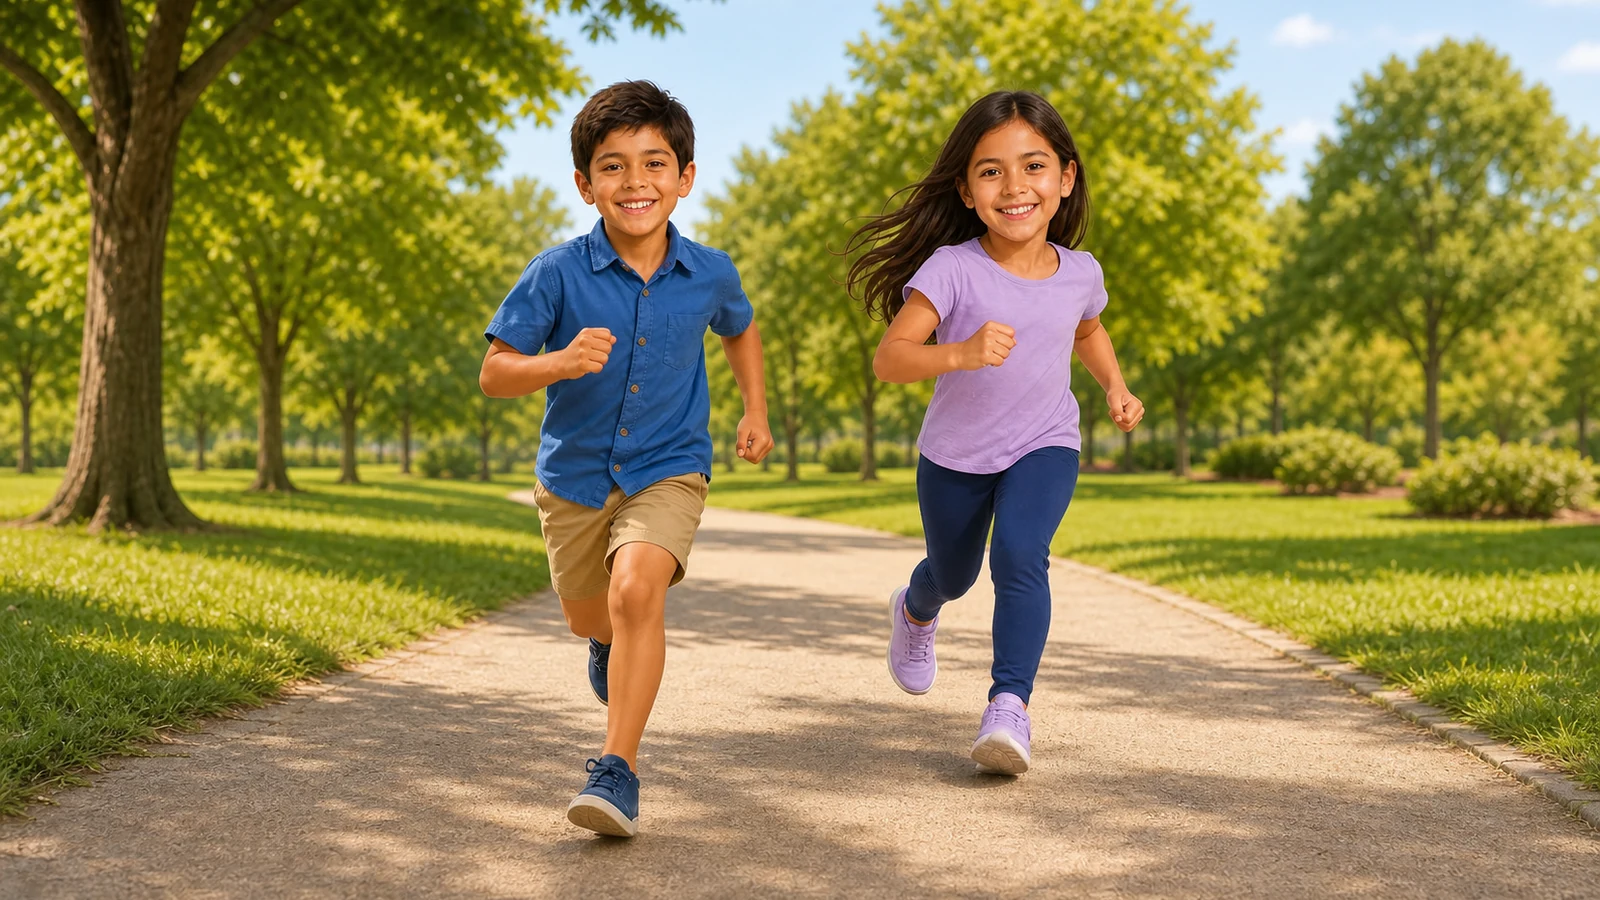
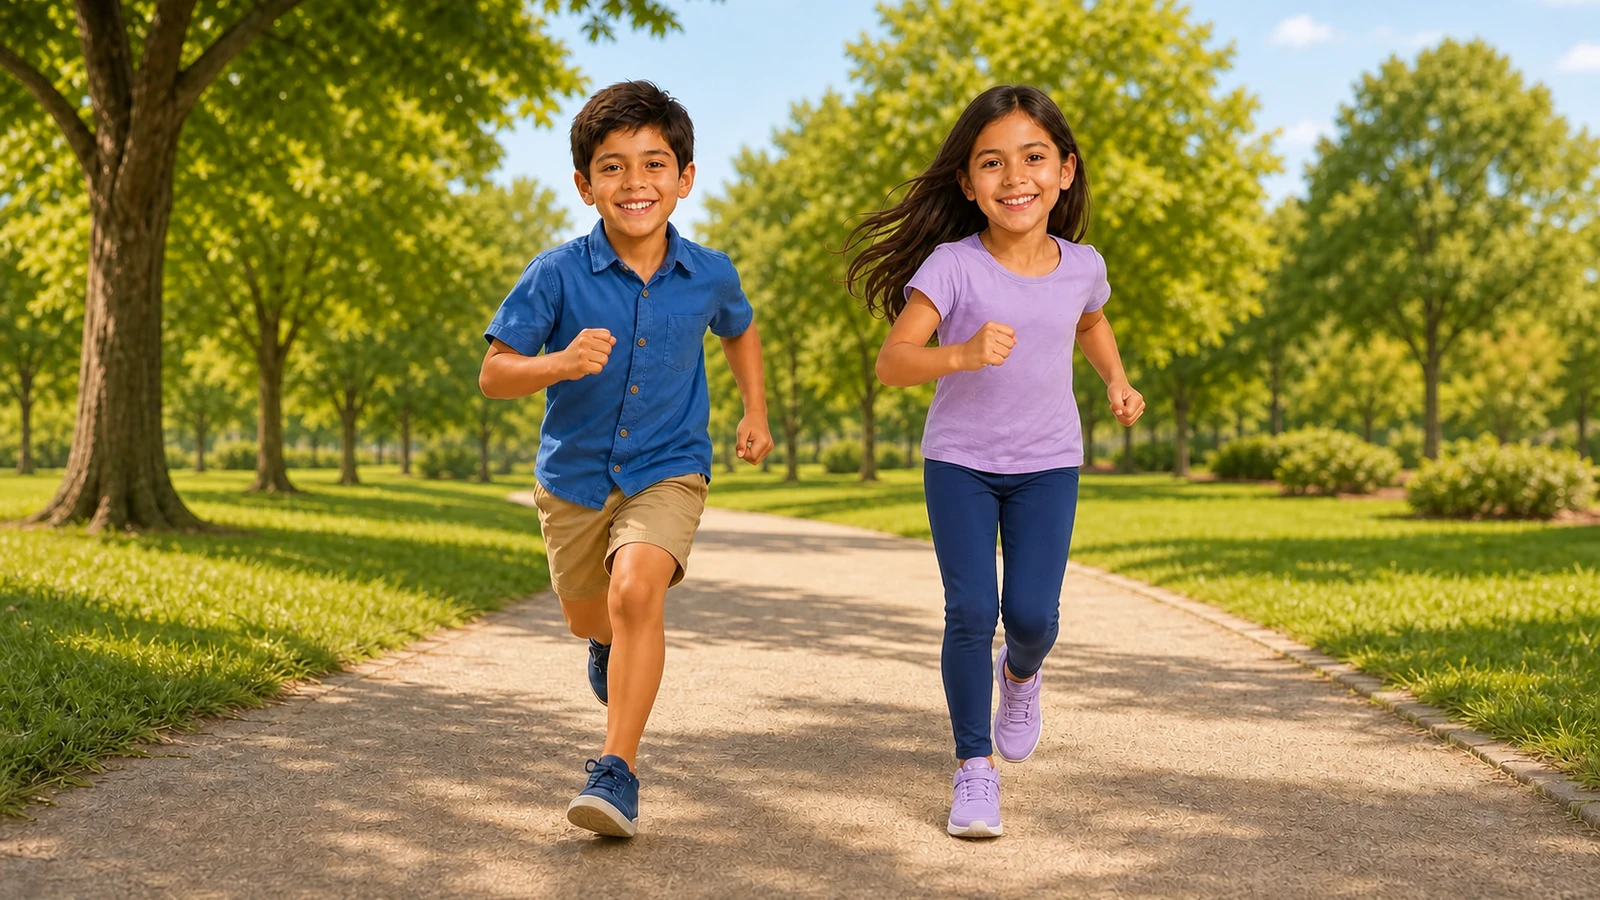
Correct running girl proportions

diff --git a/backend/app/data.py b/backend/app/data.py
@@ -10,7 +10,13 @@ LESSON_IMAGE_DIR = ROOT_DIR / "Lessons" / "Lesson1" / "images"
 
 def image_url(name: str) -> str:
     image_name = Path(name).with_suffix('.webp').name
-    if image_name.startswith("they_"):
+    if image_name in {
+        "girl_is_running.webp",
+        "they_boy_girl_are_running.webp",
+        "they_girl_woman_are_running.webp",
+    }:
+        cache_version = "?v=20260802-running-girl-proportions-v2"
+    elif image_name.startswith("they_"):
         cache_version = "?v=20260801-unified-plural-v2"
     elif image_name.startswith(("place_", "object_")):
         cache_version = "?v=20260801-objects-places-v2"
